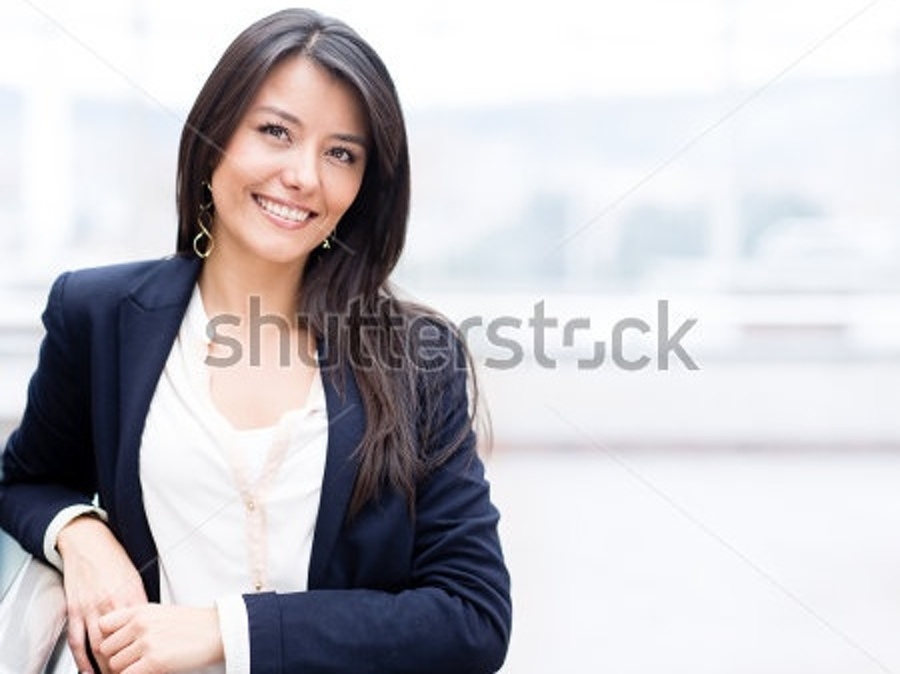
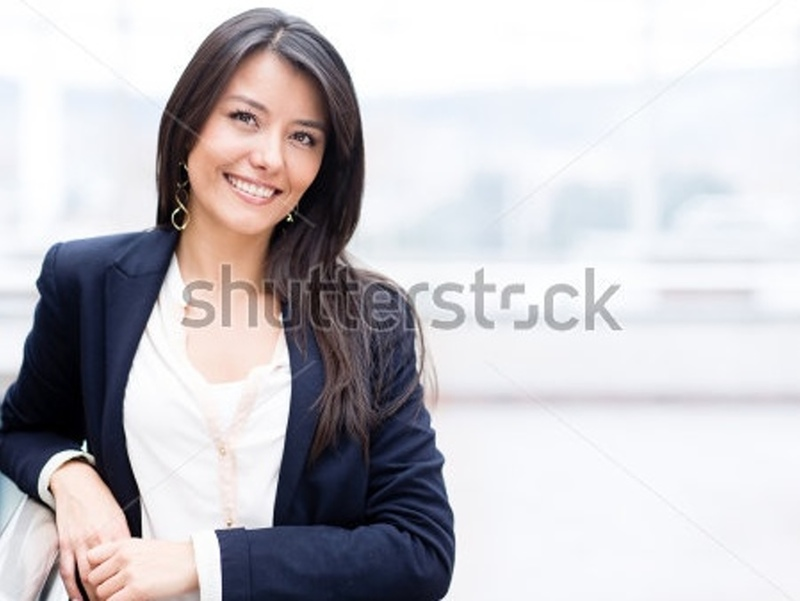
shrink images - add contact form

diff --git a/hypnosis.html b/hypnosis.html
@@ -3,12 +3,22 @@ layout: page
 title: What is Hypnosis?
 ---
 
-<p><img src="/imgs/seven.jpg" class="left"></p>
+<div class="row">
+  <div class="large-4 medium-4 columns">
+    <img src="/imgs/image-07.jpg" class="left">
+  </div>
+  
+  <div class="large-8 medium-8 columns">
+    <h4><small>It’s hard to describe the hypnotic state as everyone experiences this differently.</small></h4>
+  </div>
+</div>
 
-<p>&nbsp;</p>
+<div class="row">
+  <div class="large-12 medium-12 columns">
+    <p>Brain scans have shown that the hypnotic experience is not the same as sleep, but similar to the kind of state you feel when you are caught up in reading a good book and your attention becomes narrowed and you become less “tuned in” to the things going on around you. In a therapeutic setting, hypnosis is frequently associated with focussing on achieving a state of relaxation, where a person can be receptive to positive suggestions.</p>
 
-<p>It’s hard to describe the hypnotic state as everyone experiences this differently.  Brain scans have shown that the hypnotic experience is not the same as sleep, but similar to the kind of state you feel when you are caught up in reading a good book and your attention becomes narrowed and you become less “tuned in” to the things going on around you. In a therapeutic setting, hypnosis is frequently associated with focussing on achieving a state of relaxation, where a person can be receptive to positive suggestions.</p>
+    <p>Generally speaking, most people can be hypnotised if they have the ability to pay attention to normal events.</p> 
 
-<p>Generally speaking, most people can be hypnotised if they have the ability to pay attention to normal events.</p> 
-
-<p>No one can make you do anything in hypnosis, any more than they could in everyday life.</p> 
+    <p>No one can make you do anything in hypnosis, any more than they could in everyday life.</p> 
+  </div>
+</div>

diff --git a/_includes/contact-form.html b/_includes/contact-form.html
@@ -1,4 +1,4 @@
-<form class="panel callout radius">
+<form id="contact-form" name="contact-form" method="post" class="panel callout radius">
   <div class="row">
     <div class="large-12 columns">
       <h3>Get in touch</h3>
@@ -8,34 +8,39 @@
   <div class="row">
     <div class="large-12 columns">
       <label>Name
-        <input type="text" placeholder="Your name" />
+        <input id="name" name="name" type="text" placeholder="Your name" />
       </label>
     </div>
   </div>
   <div class="row">
     <div class="large-12 columns">
       <label>Email
-        <input type="text" placeholder="Your email address" />
+        <input id="email" name="email" type="email" placeholder="Your email address" />
       </label>
     </div>
   </div>
   <div class="row">
     <div class="large-12 columns">
       <label>Phone
-        <input type="text" placeholder="Your phone number" />
+        <input id="phone" name="phone" type="tel" placeholder="Your phone number" />
       </label>
     </div>
   </div>
   <div class="row">
     <div class="large-12 columns">
       <label>Enquiry
-        <textarea rows="10" placeholder="What is your enquiry?"></textarea>
+        <textarea id="enqiry" name="enqiry" rows="10" placeholder="What is your enquiry?"></textarea>
       </label>
     </div>
   </div>
   <div class="row">
     <div class="large-12 columns">
-      <a href="/" class="button expand secondary radius">Send</a>
+      <input type="submit" value="Send" class="button expand secondary radius" />
+    </div>
+  </div>
+  <div class="row">
+    <div class="large-12 columns">
+      <div id="response" name="response"></div>
     </div>
   </div>
 </form>

diff --git a/js/contact-form.js b/js/contact-form.js
@@ -1,0 +1,61 @@
+function initializeContactForm() {
+  $("#contact-form").submit(function(event) {
+    event.preventDefault();
+    cleanResponse();
+    if (isValid()) {
+      sendMail();
+    } else {
+      writeMessage("Please supply all of the required information.", true);
+    }
+  });
+}
+
+function isValid() {
+  var valid = true;
+  var fields = $("#contact-form").serializeArray();
+  
+  jQuery.each(fields, function(i, field) {
+    if (field.value === "") {
+      $('#' + field.name).css('border', '1px solid #ef0000');
+      valid = false;
+    }
+  });
+  
+  return valid;
+}
+
+function writeMessage(message, isError) {
+  $('#response').text(message).hide().fadeIn(1000);
+
+  if (isError) {
+    $('#response').css('color', '#ef0000');
+  } else {
+    $('#response').css('color', '#1a456d');
+  }
+}
+
+function cleanResponse() {
+  var fields = $("#contact-form").serializeArray();
+  
+  jQuery.each(fields, function(i, field) {
+    $('#' + field.name).css('border', '');
+  });
+  
+  $('#response').empty();
+}
+
+function sendMail() {
+  $.ajax({
+    type: "post",
+    url: "http://localhost:9292/send_email",
+    data: $('#contact-form').serialize(),
+    dataType: "json",
+    success: function(response) {
+      if (response.message === "success") {
+        writeMessage("Your message has been successfully sent.  Thank you.", false);
+      } else {
+        writeMessage("Whoops!  There was an error sending your message.  Please try again.", true);
+      }
+    }
+  });
+}

diff --git a/index.html b/index.html
@@ -29,7 +29,7 @@ title: Home
 	<div class="large-4 medium-4 columns">
 	  <div class="panel radius" data-equalizer-watch>
 	    <h3><small>What is Hypnosis?</small></h3>
-      <img src="/imgs/one.jpg">
+      <img src="/imgs/image-01.jpg">
       <p>Wondering what hypnosis is, what it can do for you, or simply how does hypnosis work?</p>
   	  <p><a href="/hypnosis.html" class="button expand secondary radius">Read more</a></p>
   	</div>
@@ -38,7 +38,7 @@ title: Home
 	<div class="large-4 medium-4 columns">
 	  <div class="panel radius" data-equalizer-watch>
 	    <h3><small>The Hypnotherapy Process</small></h3>
-  	  <img src="/imgs/two.jpg">
+  	  <img src="/imgs/image-02.jpg">
   	  <p>What can I expect from a hypnotherapy session?  How long will it take?</p>
   	  <p><a href="/process.html" class="button expand secondary radius">Read more</a></p>
   	</div>
@@ -47,7 +47,7 @@ title: Home
 	<div class="large-4 medium-4 columns">
 	  <div class="panel radius" data-equalizer-watch>
 	    <h3><small>Uses of Hypnosis</small></h3>
-  	  <img src="/imgs/three.jpg">
+  	  <img src="/imgs/image-03.jpg">
   	  <p>What are the uses and benefits of hypnosis?  What can be treated with hypnosis?</p>
   	  <p><a href="/uses.html" class="button expand secondary radius">Read more</a></p>
   	</div>

diff --git a/_layouts/default.html b/_layouts/default.html
@@ -21,8 +21,13 @@
     
     <script src="js/vendor/jquery.js"></script>
     <script src="js/foundation.min.js"></script>
+    <script src="js/contact-form.js"></script>
     <script>
       $(document).foundation();
+      
+      $(function() {
+        initializeContactForm();
+      });
     </script>
 
   </body>

diff --git a/_includes/footer.html b/_includes/footer.html
@@ -1,7 +1,7 @@
 <div class="row">
   <div class="large-12 medium-12 columns">
     <footer class="text-right top-bar">
-      <a href="/sitemap.xml">sitemap</a> Copyright &copy; 2014 Julia Lewis
+      Copyright &copy; 2014 Julia Lewis
     </footer>
   </div>     
 </div>

diff --git a/faqs.html b/faqs.html
@@ -5,7 +5,7 @@ title: Frequently Asked Questions
 
 <div class="row">
   <div class="large-4 medium-4 columns">
-    <img src="/imgs/ten.jpg" class="left">
+    <img src="/imgs/image-10.jpg" class="left">
   </div>
   
   <div class="large-8 medium-8 columns">

diff --git a/process.html b/process.html
@@ -5,7 +5,7 @@ title: The Hypnotherapy Process
 
 <div class="row">
   <div class="large-4 medium-4 columns">
-    <img src="/imgs/six.jpg" class="left">
+    <img src="/imgs/image-06.jpg" class="left">
   </div>
   
   <div class="large-8 medium-8 columns">

diff --git a/uses.html b/uses.html
@@ -5,7 +5,7 @@ title: Uses of Hypnosis
 
 <div class="row">
   <div class="large-4 medium-4 columns">
-    <img src="/imgs/eight.jpg" class="left">
+    <img src="/imgs/image-08.jpg" class="left">
   </div>
   
   <div class="large-8 medium-8 columns">

diff --git a/resources.html b/resources.html
@@ -6,7 +6,7 @@ title: Resources
 
 <div class="row">
   <div class="large-4 medium-4 columns">
-    <img src="/imgs/nine.jpg" class="left">
+    <img src="/imgs/image-09.jpg" class="left">
   </div>
   
   <div class="large-8 medium-8 columns">

diff --git a/about.html b/about.html
@@ -5,7 +5,7 @@ title: About me
 
 <div class="row">
   <div class="large-6 medium-6 columns">
-    <p><img src="/imgs/five.jpg"></p>
+    <p><img src="/imgs/image-05.jpg"></p>
 
     <h4>Julia Lewis MSc</h4>
   </div>
